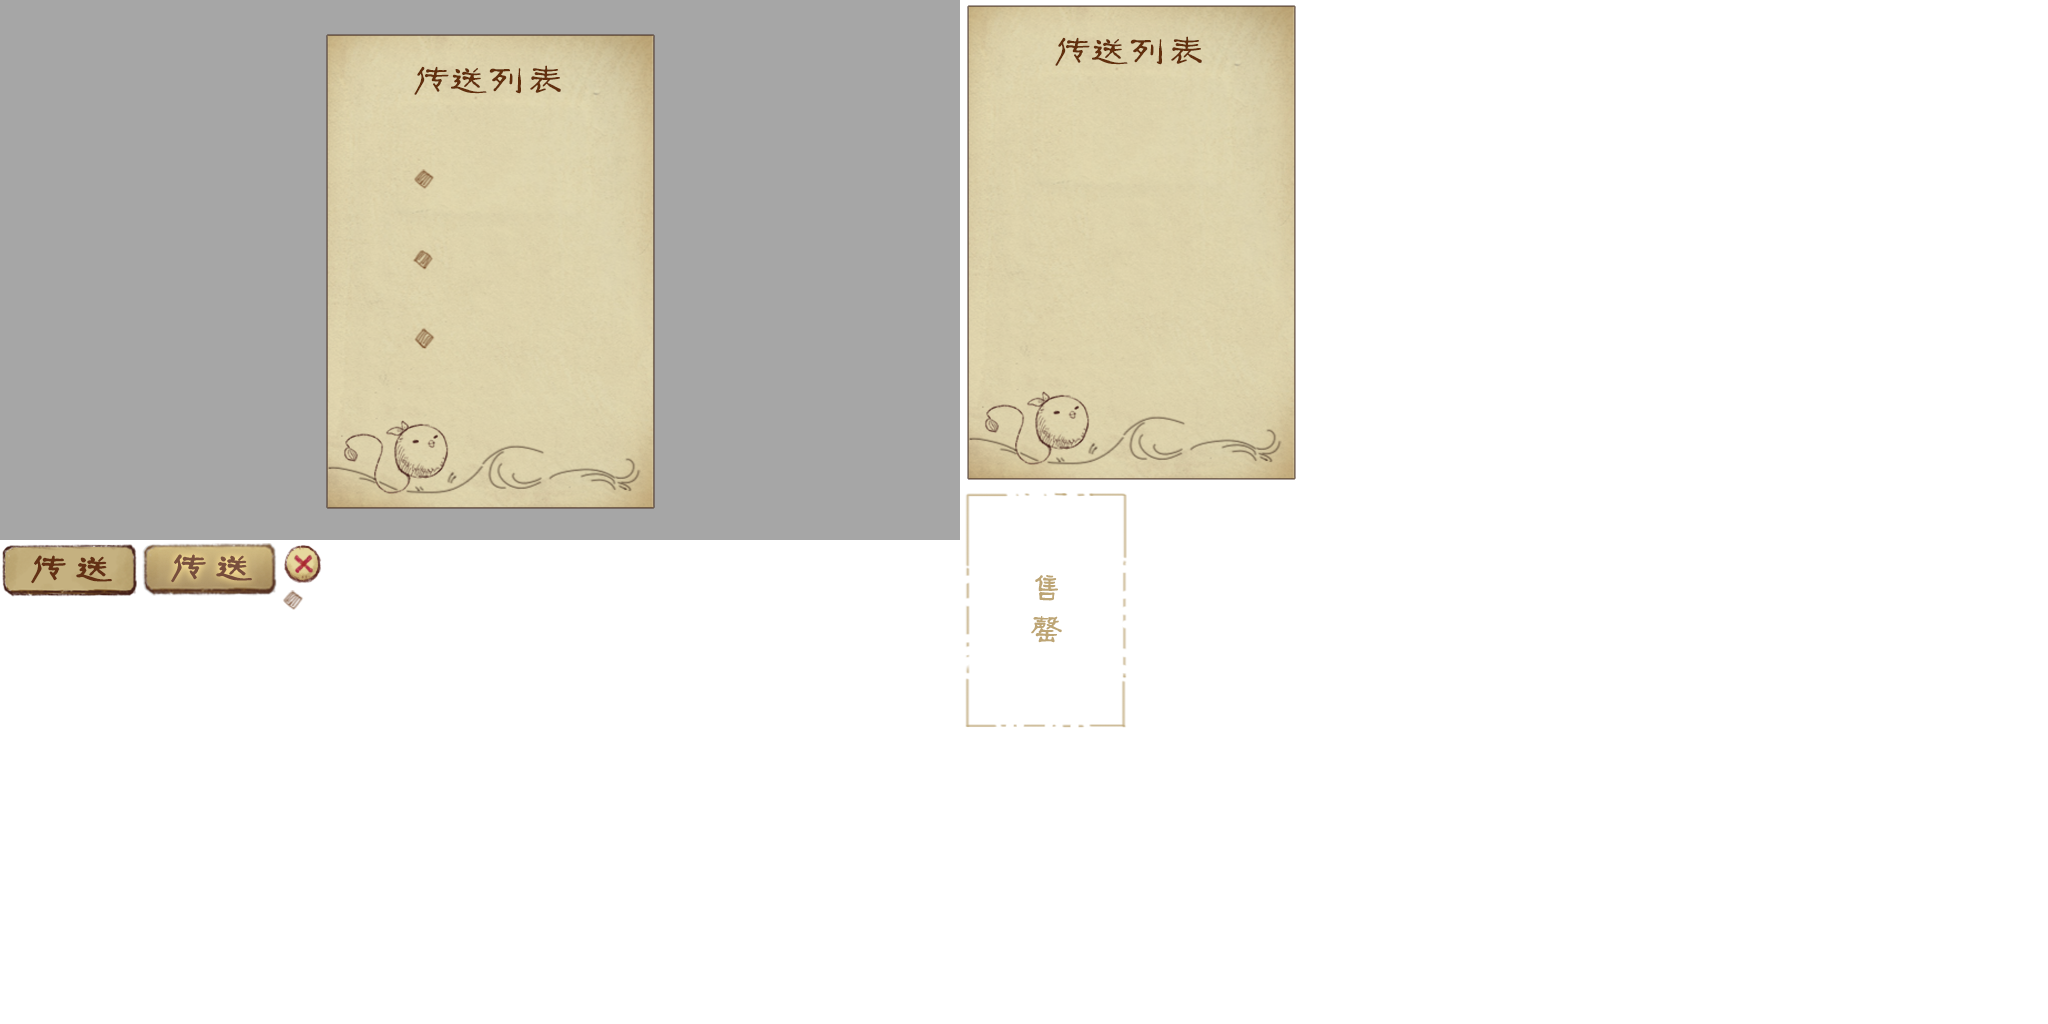
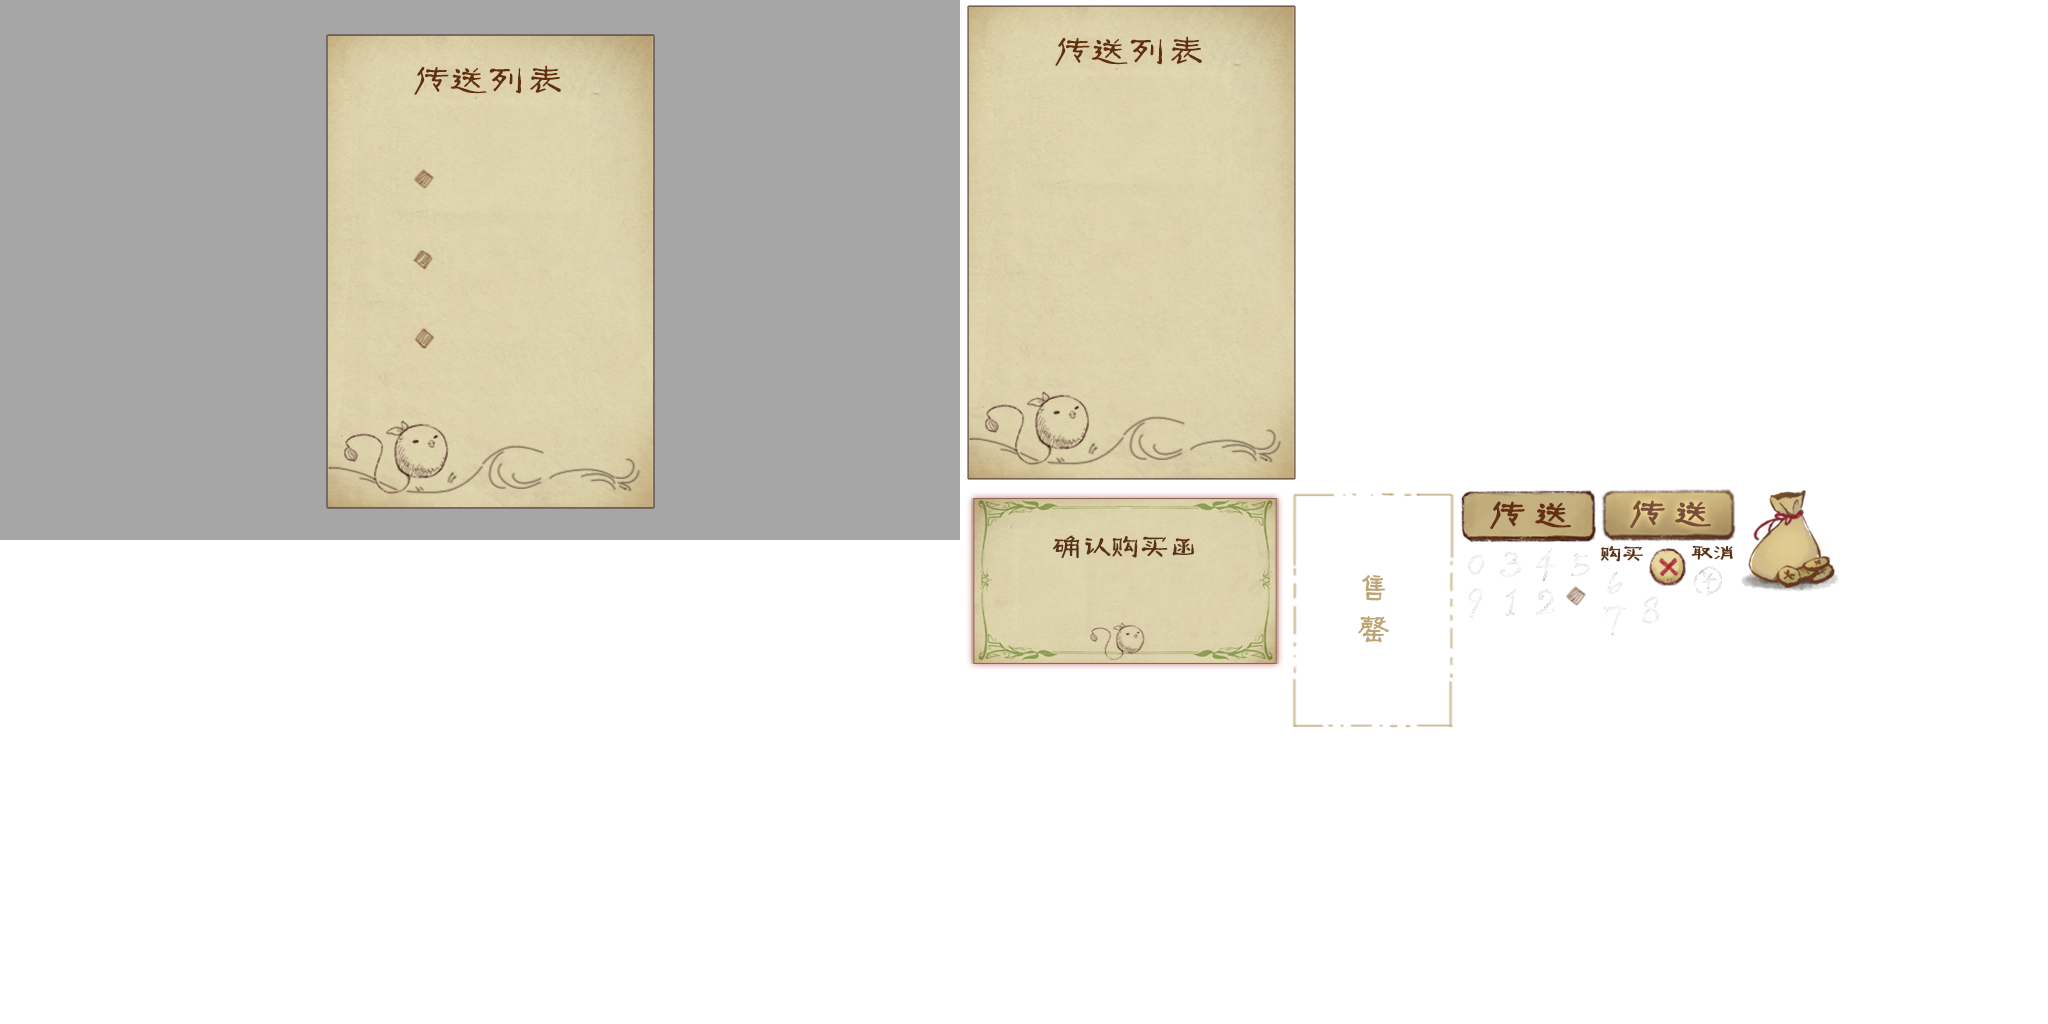
完善图书馆

diff --git a/GloryFantasy/Assets/Scripts/UI/MainMapUI/MainMapUI.cs b/GloryFantasy/Assets/Scripts/UI/MainMapUI/MainMapUI.cs
@@ -29,12 +29,16 @@ namespace GameGUI
         private GComponent mainmapUI;
         private GComponent libraryUI;
         private GComponent cardcollectUI;
+        private GComponent verifyUI;
         private Window cardcollect_UI;
         private Window library_UI;
+        private Window verify_UI;
         private GComponent _cardDisplayer;
         #endregion
         #region 按钮，文本,装载器等
         private GButton ccbtn;
+        private GButton buybtn;
+        private GButton cancelbtn;
         //private GButton closebtn;
         private GLoader _cardloader;
         private GList cardcollectionlist;
@@ -44,15 +48,12 @@ namespace GameGUI
         private GLoader _iconLoader;
         private GLoader _picLoader;
         #endregion
-        /// <summary>卡牌收藏链表，对CardCollection的引用
+        /// <summary>对CardCollection的引用
         /// //Todo:为啥这么写呢。。？
         /// 
         /// </summary>
         private List<string> playercardlist;
-        /// <summary>图书馆正销售的卡牌链表
-        /// 
-        /// </summary>
-        private List<string> librarylist = new List<string>();
+        private List<string> library_list;
         //URL
         private const string cardicons = "CardIcon";
         /// <summary>初始化
@@ -74,6 +75,10 @@ namespace GameGUI
             library_UI = new Window();
             library_UI.contentPane = libraryUI;
             library_UI.CenterOn(GRoot.inst, true);
+            verifyUI = UIPackage.CreateObject("Library", "verifyUI").asCom;
+            verify_UI = new Window();
+            verify_UI.contentPane = verifyUI;
+            verify_UI.CenterOn(GRoot.inst, true);
             GRoot.inst.AddChild(mainmapUI);
             #region 初始化按钮装载器文本等
             ccbtn = mainmapUI.GetChild("CardCollectionBtn").asButton;
@@ -92,9 +97,10 @@ namespace GameGUI
         private void Start()
         {
             playercardlist = CardCollection.Instance().mycollection;
+            library_list = CardCollection.Instance().librarylist;
             cardcollectionlist.onClickItem.Add(OnClickCardInCardCollection);
             onsalelist.onClickItem.Add(OnClickCardInLibrary);
-            GetCards();
+            CardCollection.Instance().GetCards();
         }
         #region 图书馆相关代码
         /// <summary>点击图书馆地格后调用此方法展示图书馆UI并作初始化工作;
@@ -107,26 +113,7 @@ namespace GameGUI
             ShowCard();
             GButton closebtn = library_UI.contentPane.GetChild("Close").asButton;
             closebtn.onClick.Add(() => LeaveOnClick());
-        }
-        public  void DealOnClick()
-        {
-            GetCards();
-        }
-        /// <summary>获取三张卡牌信息,并写入librarylist;
-        /// 
-        /// </summary>
-        public  void GetCards()
-        {
-            JsonData cardsJsonData =
-            JsonMapper.ToObject(File.ReadAllText(Application.dataPath + "/Scripts/Cards/cardSample.1.json"));
-            int dataAmount = cardsJsonData.Count;
-            int num1 = Random.Range(0, dataAmount);
-            int num2 = Random.Range(0, dataAmount);
-            int num3 = Random.Range(0, dataAmount);
-            librarylist.Add(cardsJsonData[num1]["id"].ToString());
-            librarylist.Add(cardsJsonData[num2]["id"].ToString());
-            librarylist.Add(cardsJsonData[num3]["id"].ToString());
-        }
+        }    
         /// <summary>点击传送时，调用此方法
         /// 
         /// </summary>
@@ -140,6 +127,7 @@ namespace GameGUI
         public  void LeaveOnClick()
         {
             library_UI.Hide();
+            verify_UI.Hide();
             mapcamera.SetActive(true);
         }
         /// <summary>展示三张卡牌，
@@ -148,7 +136,7 @@ namespace GameGUI
         public  void ShowCard()
         {
             onsalelist.RemoveChildren();
-            foreach (string cardID in librarylist)
+            foreach (string cardID in library_list)
             {
                 GObject item = UIPackage.CreateObject("Library", "CardItem");
                 item.icon = UIPackage.GetItemURL(cardicons, cardID);
@@ -161,17 +149,35 @@ namespace GameGUI
         /// <param name="context"></param>
         public void OnClickCardInLibrary(EventContext context)
         {
-            int index = onsalelist.GetChildIndex(context.data as GObject);
-            string cardId = librarylist[index];
-            if (CardCollection.Instance().AddCard(cardId))
-            {
-                Debug.Log("购买成功！");
-                librarylist.Remove(cardId);
-            }
+            CardCollection.Instance().choosecardindex = onsalelist.GetChildIndex(context.data as GObject);
+            CardCollection.Instance().choosecardID = library_list[CardCollection.Instance().choosecardindex];
+            verify_UI.Show();
+            buybtn = verify_UI.contentPane.GetChild("buybtn").asButton;
+            cancelbtn = verify_UI.contentPane.GetChild("cancelbtn").asButton;
+            buybtn.onClick.Add(BuyOnclick);
+            cancelbtn.onClick.Add(CancelOnclick);
 
-            onsalelist.RemoveChildAt(index, true);
-
-
+        }
+        /// <summary>购买按钮点击事件
+        /// 
+        /// </summary>
+        /// <param name="cardId"></param>
+        /// <param name="index"></param>
+        public void BuyOnclick()
+        {
+            CardCollection.Instance().BuyCard();
+            onsalelist.RemoveChildAt(CardCollection.Instance().choosecardindex, true);
+            verify_UI.Hide();
+            
+        }
+        /// <summary>取消按钮点击事件
+        /// 
+        /// </summary>
+        public void CancelOnclick()
+        {
+            Debug.Log("取消购买");
+            buybtn.onClick.Remove(BuyOnclick);
+            verify_UI.Hide();
         }
         #endregion
         #region 卡牌书相关代码

diff --git a/GloryFantasy/Assets/Scripts/MainMap/MainMapManager.cs b/GloryFantasy/Assets/Scripts/MainMap/MainMapManager.cs
@@ -246,7 +246,6 @@ private void ReadMap()
 /// </summary>
 public abstract class MapUnit:MonoBehaviour
 {
-  //  public  MainMapManager mapManager;
     public HexVector hexVector = new HexVector();
     public Button btn;
     /// <summary>初始化地格，获得所在实例的按钮组件并监听事件
@@ -278,7 +277,7 @@ public abstract class MapUnit:MonoBehaviour
             }
 
           }
-        /// <summary>移动结束人物静止后会调用这个函数，比如显示图书馆ui,
+        /// <summary>charactor中人物移动完成后会调用这个函数，用于响应地格上事件
         /// 
         /// </summary>
     public virtual void ChangePositionOver()
@@ -327,7 +326,7 @@ public class Plane : MapUnit
 /// </summary>
 public class Library : MapUnit
 {
-    
+    public static List<Library> activelibrarylist = new List<Library>();
     /// <summary>图书馆是否激活
     /// 
     /// </summary>
@@ -350,21 +349,23 @@ public class Library : MapUnit
         {
             ChangePosition(1);                    
         }
-        else if (ReadyToTrans == true)
-        {
+    #region 弃用的代码
+            //else if (ReadyToTrans == true)
+            //{
 
-            if (isActive == false)
-            {
-                Debug.Log("所选图书馆未激活。");
-            }
-            else
-            {
-                Debug.Log("指令合法，开始传送");
-                transfer();
-                ReadyToTrans = false;
-                Debug.Log("传送完成");
-            }
-        }
+            //    if (isActive == false)
+            //    {
+            //        Debug.Log("所选图书馆未激活。");
+            //    }
+            //    else
+            //    {
+            //        Debug.Log("指令合法，开始传送");
+            //        transfer();
+            //        ReadyToTrans = false;
+            //        Debug.Log("传送完成");
+            //    }
+            //}
+            #endregion
         else
         {
             Debug.Log("你不在这个图书馆");
@@ -375,29 +376,31 @@ public class Library : MapUnit
             isActive = true;
             Debug.Log("图书馆已激活");
             Debug.Log("进入图书馆");
-            //TODO 显示图书馆ui
             MainMapUI.Instance().ShowlibraryUI(this);
-            //如果放弃传送移动到图书馆相邻格子会重新把readytotrans设置为false,这里实现的很蠢，等结合UI就可以通过按钮监听canceltrans了0.0
-            foreach (MapUnit unit in Charactor.Instance().aroundlist.Values)
-            {
+            activelibrarylist.Add(this);
+            #region 弃用的代码
+            ////如果放弃传送移动到图书馆相邻格子会重新把readytotrans设置为false,这里实现的很蠢，等结合UI就可以通过按钮监听canceltrans了0.0
+            //foreach (MapUnit unit in Charactor.Instance().aroundlist.Values)
+            //{
 
-                if (unit != null)
-                {
-                    unit.gameObject.GetComponent<Button>().onClick.AddListener(CancelTrans);
+            //    if (unit != null)
+            //    {
+            //        unit.gameObject.GetComponent<Button>().onClick.AddListener(CancelTrans);
 
-                }
-                else
-                {
+            //    }
+            //    else
+            //    {
 
-                }
-            }
+            //    }
+            //}
+            #endregion
         }
         public static void PrepareTrans()
         {
             ReadyToTrans = true;
             Debug.Log("准备传送");
         }
-    /// <summary>传送的具体方法
+    /// <summary>传送的具体实现
     /// 
     /// </summary>
     public void transfer()

diff --git a/GloryFantasy/Assets/Scripts/MainMap/CharactorOOnMap/CardCollection.cs b/GloryFantasy/Assets/Scripts/MainMap/CharactorOOnMap/CardCollection.cs
@@ -15,10 +15,15 @@ public class CardCollection : UnitySingleton<CardCollection> {
     /// 角色的卡牌收藏
     /// </summary>
     public List<string> mycollection = new List<string>();
-    /// <summary>
-    /// 卡牌数据库的json文件
+    /// <summary>图书馆正销售的卡牌链表
+    /// 
     /// </summary>
-    //JsonData cardsJsonData =  JsonMapper.ToObject(File.ReadAllText(Application.dataPath + "/Scripts/Cards/cardSample.1.json"));
+    public List<string> librarylist = new List<string>();
+    /// <summary>图书馆里被选中的卡牌0.0
+    /// 
+    /// </summary>
+    public string choosecardID;
+    public int choosecardindex;
     /// <summary>
     /// 通过卡牌ID向收藏中添加卡牌时调用，添加成功返回true
     /// </summary>
@@ -29,9 +34,31 @@ public class CardCollection : UnitySingleton<CardCollection> {
         mycollection.Add(ID);
         return true;
     }
-    public bool BuyCard(string ID)
+    /// <summary>图书馆购买卡牌时调用，移出商店并添加进卡牌收藏
+    /// 
+    /// </summary>
+    /// <param name="ID"></param>
+    /// <returns></returns>
+    public bool BuyCard()
     {
-
+        mycollection.Add(choosecardID);
+        Debug.Log("购买成功！");
+        librarylist.Remove(choosecardID);
         return true;
+    }
+    /// <summary>获取三张卡牌信息,并写入librarylist;
+    /// 
+    /// </summary>
+    public void GetCards()
+    {
+        JsonData cardsJsonData =
+        JsonMapper.ToObject(File.ReadAllText(Application.dataPath + "/Scripts/Cards/cardSample.1.json"));
+        int dataAmount = cardsJsonData.Count;
+        int num1 = Random.Range(0, dataAmount);
+        int num2 = Random.Range(0, dataAmount);
+        int num3 = Random.Range(0, dataAmount);
+        librarylist.Add(cardsJsonData[num1]["id"].ToString());
+        librarylist.Add(cardsJsonData[num2]["id"].ToString());
+        librarylist.Add(cardsJsonData[num3]["id"].ToString());
     }
 }
